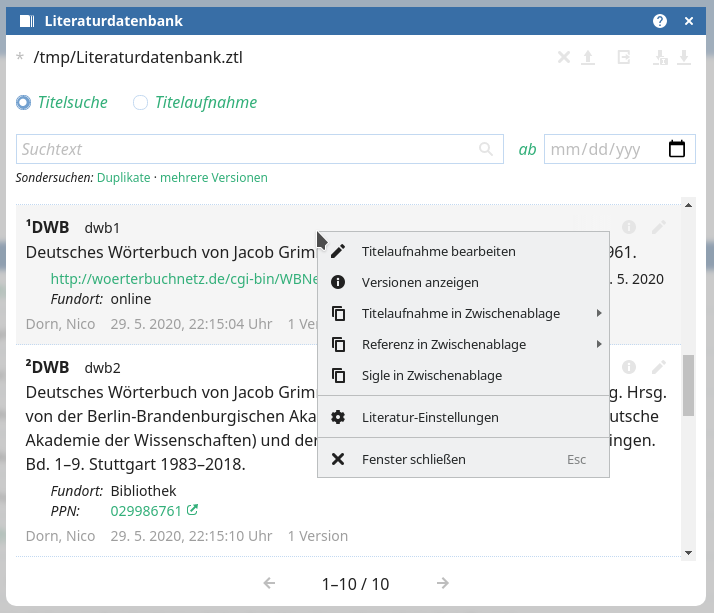
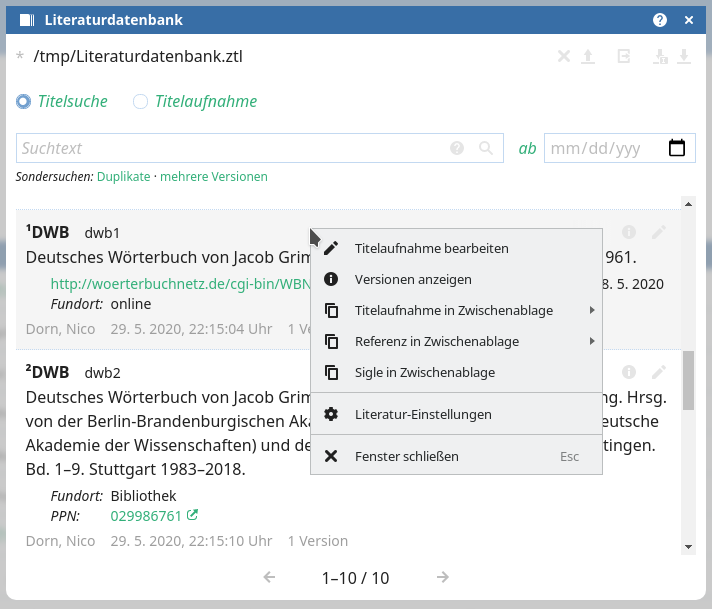
Feature: Hilfe-Popup zur Suchsyntax in der Literaturdatenbank

diff --git a/index.html b/index.html
@@ -1038,12 +1038,70 @@
 					><label for="red-lit-nav-eingabe">Titelaufnahme</label
 			></div>
 			<div id="red-lit-suche" class="aus">
-				<p id="red-lit-suche-form"
+				<div id="red-lit-suche-form"
 					><input type="text" value="" placeholder="Suchtext" id="red-lit-suche-text"
 					><label for="red-lit-suche-ab">ab</label
 					><input type="date" value="" id="red-lit-suche-ab" required
+					><a href="#" class="icon-link icon-kreis-fragezeichen" id="red-lit-suche-hilfe" tabindex="-1" title="Hilfe zur Suchsyntax"> </a
 					><a href="#" class="icon-link icon-lupe" id="red-lit-suche-start" tabindex="-1" title="Suche starten"> </a
-				></p>
+				><div id="red-lit-suche-hilfe-fenster" class="aus"
+					><img src="img/x.svg" width="24" height="24" alt="x" title="Popup schließen (Esc)">
+					<p>Basale <b>Suchsyntax</b>:</p>
+					<table>
+						<tr>
+							<th><code>wörterbuch</code></th>
+							<td>Einzelwortsuche</td>
+						</tr>
+						<tr>
+							<th><code>Wörterbuch</code></th>
+							<td>Einzelwortsuche mit genauer Schreibung</td>
+						</tr>
+						<tr>
+							<th><code>wörterbuch deutsch</code></th>
+							<td>Mehrwortsuche</td>
+						</tr>
+						<tr>
+							<th><code>&quot;wörterbuch der&quot;</code></th>
+							<td>Phrasensuche</td>
+						</tr>
+						<tr>
+							<th><code>-wörterbuch</code></th>
+							<td>negierte Einzelwortsuche</td>
+						</tr>
+						<tr>
+							<th><code>-&quot;wörterbuch der&quot;</code></th>
+							<td>negierte Phrasensuche</td>
+						</tr>
+						<tr>
+							<th><code>wörterbuch -deutsch</code></th>
+							<td>Mehrwortsuche, negiert und nicht negiert</td>
+						</tr>
+					</table>
+					<p>Mit den folgenden <b>Schaltern</b> grenzt man die Suche auf ein Datenfeld ein. Der Schalter <code>auchAlte:&quot;&quot;</code> dient dazu, auch veraltete Datensätze zu durchsuchen.</p>
+					<p><a href="#" title="Kurzform: si">Sigle:&quot;&quot;</a> <a href="#" title="Kurzform: id">ID:&quot;&quot;</a> <a href="#" title="Kurzform: ti">Titel:&quot;&quot;</a> <a href="#" title="Kurzform: ul">URL:&quot;&quot;</a> <a href="#" title="Kurzform: ad">Aufrufdatum:&quot;&quot;</a> <a href="#" title="Kurzform: fo">Fundort:&quot;&quot;</a> <a href="#" title="Kurzform: pn">PPN:&quot;&quot;</a> <a href="#" title="Kurzform: tg">Tags:&quot;&quot;</a> <a href="#" title="Kurzform: no">Notizen:&quot;&quot;</a> <a href="#" title="Kurzform: be">BearbeiterIn:&quot;&quot;</a> <a href="#" title="Kurzform: aa">auchAlte:&quot;&quot;</a></p>
+					<table>
+						<tr>
+							<th><code>Titel:&quot;Suchtext&quot;</code></th>
+							<td><q>Suchtext</q> muss im Feld <i>Titel</i> stehen</td>
+						</tr>
+						<tr>
+							<th><code>-Titel:&quot;Suchtext&quot;</code></th>
+							<td><q>Suchtext</q> darf nicht im Feld <i>Titel</i> stehen</td>
+						</tr>
+						<tr>
+							<th><code>Tags:&quot;&quot;</code></th>
+							<td>Feld <i>Tags</i> muss gefüllt sein</td>
+						</tr>
+						<tr>
+							<th><code>-Tags:&quot;&quot;</code></th>
+							<td>Feld <i>Tags</i> darf nicht gefüllt sein</td>
+						</tr>
+						<tr>
+							<th><code>auchAlte:&quot;&quot;</code></th>
+							<td>niemals negiert, immer ohne Suchtext</td>
+						</tr>
+					</table>
+				</div></div>
 				<p id="red-lit-suche-sonder"
 					><i>Sondersuchen:</i> <a href="#" data-sonder="duplikate">Duplikate</a> · <a href="#" data-sonder="versionen">mehrere Versionen</a
 				></p>

diff --git a/js/app/redLit.js b/js/app/redLit.js
@@ -1386,6 +1386,8 @@ let redLit = {
 	},
 	// Suche: starten
 	sucheStarten () {
+		// Suchhilfe schließen
+		document.getElementById("red-lit-suche-hilfe-fenster").classList.add("aus");
 		// Filterkriterien auslesen/Variablen vorbereiten
 		let input = document.getElementById("red-lit-suche-text"),
 			text = helfer.textTrim(input.value, true),
@@ -1852,6 +1854,38 @@ let redLit = {
 			// Titelaufnahme auffrischen
 			redLit.anzeige.snippetKontext = "suche";
 			i.parentNode.replaceChild(redLit.anzeigeSnippet(ds), i);
+		});
+	},
+	// Suche: Schalter ins Suchfeld eintragen
+	//   a = Element
+	//     (Anker im Hilfefenster)
+	sucheSchalter (a) {
+		a.addEventListener("click", function(evt) {
+			evt.preventDefault();
+			// Suchfeld vorbereiten
+			let suchfeld = document.getElementById("red-lit-suche-text");
+			if (suchfeld.value) {
+				suchfeld.value += " ";
+			}
+			// Suchfeld ergänzen
+			let schalter = this.textContent;
+			if (/^Aufrufdatum/.test(schalter)) {
+				const datum = new Date();
+				schalter = schalter.replace(/""/, `"${datum.getFullYear()}-${(datum.getMonth() + 1).toString().padStart(2, "0")}-${datum.getDate().toString().padStart(2, "0")}"`);
+			}
+			suchfeld.value += schalter;
+			// Cursor im Suchfeld setzen
+			const len = suchfeld.value.length;
+			if (/^auchAlte/.test(schalter)) {
+				suchfeld.setSelectionRange(len, len);
+			} else if (/^Aufrufdatum/.test(schalter)) {
+				suchfeld.setSelectionRange(len - 11, len - 1);
+			} else {
+				suchfeld.setSelectionRange(len, len - 1);
+			}
+			// Fenster schließen und Suchfeld fokussieren
+			document.getElementById("red-lit-suche-hilfe-fenster").classList.add("aus");
+			suchfeld.focus();
 		});
 	},
 	// Eingabeformular: Speicher für Variablen
@@ -3504,6 +3538,8 @@ let redLit = {
 	anzeigePopup ({id, slot}) {
 		redLit.anzeige.snippetKontext = "popup";
 		redLit.anzeige.id = id;
+		// Suchhilfe schließen
+		document.getElementById("red-lit-suche-hilfe-fenster").classList.add("aus");
 		// aktuelles Popup ggf. entfernen
 		redLit.anzeigePopupSchliessen();
 		// Fenster erzeugen

diff --git a/win/handbuch.html b/win/handbuch.html
@@ -4457,6 +4457,8 @@ Gerüst 2 &gt; Gerüst 1</pre>
 
 						<p>Die Suche kann via <kbd>⏎</kbd> oder durch Klick auf das Icon <img src="../img/lupe.svg" width="20" height="20" alt=""> <b>gestartet</b> werden.</p>
 
+						<p>Im <b>Hilfe-Popup</b> finden Sie Kurzhinweise zur Suchsyntax. Das Popup kann durch Klick auf das Icon <img src="../img/kreis-fragezeichen.svg" width="20" height="20" alt=""> geöffnet werden.</p>
+
 						<p>Geben Sie <b>kein Suchwort</b> ein, werden alle Titelaufnahmen in der Datenbank aufgelistet. Dabei werden pro Seite maximal 50 Treffer ausgeworfen. Im unteren Teil des Popups sehen Sie, wie viele Treffer angezeigt werden und ob es noch weitere gibt. Passen die Treffer nicht alle auf eine Seite, können Sie mithilfe der Pfeile vor- oder zurückblättern.</p>
 
 						<p>Die Suchergebnisse werden immer <b>alphanumerisch</b> nach Sigle sortiert.</p>
@@ -4510,6 +4512,8 @@ Gerüst 2 &gt; Gerüst 1</pre>
 						</ul>
 
 						<p>Dieser Schalter darf niemals Text enthalten; er dient nur zur Erweiterung des Suchskopus und kann mit allen anderen Schaltern oder Suchabfragen beliebig kombiniert werden. Da nun auch ältere Versionen einer Titelaufnahme durchsucht werden, könnte es sein, dass ihre Suche nicht auf die jüngste, aber auf eine ältere Version einer Titelaufnahme zutrifft. Ist dies der Fall, wird der Hinweis <q><span class="obacht">[Titelaufnahme veraltet]</span></q> gedruckt. Selbst wenn Ihre Suche auf mehrere der veralteten Titelaufnahmen zutrifft, wird dennoch nur die jüngste passende Aufnahme zu einem Titel angezeigt. Dies kann natürlich auch die jüngste, somit also nicht veraltete Aufnahme sein.</p>
+
+						<p>Die Schalter lassen sich alle durch Klick im <b>Hilfe-Popup</b> einfügen (Icon  <img src="../img/kreis-fragezeichen.svg" width="20" height="20" alt="">).</p>
 
 						<p>Verwenden Sie mehr als ein Suchwort und/oder mehr als einen Suchausdruck, werden diese immer durch ein <b>logisches Und</b> miteinander verknüpft. Sie bekommen nur Treffer, wenn alle Suchkriterien in einem Titel erfüllt sind.</p>
 

diff --git a/css/app/overlays-redLit.css b/css/app/overlays-redLit.css
@@ -116,8 +116,8 @@
 
 #red-lit-suche-text {
 	margin-right: 15px;
-	padding-right: 29px;
-	width: calc(100% - 228px); /* 36px Padding und Border, 15px Margin, 20px Label, 157px Datumsfeld */
+	padding-right: 58px;
+	width: calc(100% - 257px); /* 36px Padding und Border, 15px Margin, 20px Label, 157px Datumsfeld */
 	transition: background-color .5s linear;
 }
 
@@ -139,10 +139,81 @@
 	width: 20px;
 }
 
+#red-lit-suche-hilfe,
 #red-lit-suche-start {
 	position: absolute;
-	left: calc(100% - 228px + 6px); /* vgl. #red-lit-suche-text */
+	left: calc(100% - 257px + 6px); /* vgl. #red-lit-suche-text */
 	top: 3px;
+}
+
+#red-lit-suche-start {
+	left: calc(100% - 228px + 6px); /* vgl. #red-lit-suche-text */
+}
+
+#red-lit-suche-hilfe-fenster {
+	position: absolute;
+	top: 34px;
+	right: 0;
+	z-index: 1;
+	box-shadow: var(--boxShadow);
+	border: 1px solid var(--linie);
+	border-radius: 5px;
+	padding: 10px;
+	width: 500px;
+	background-color: #fff;
+	color: var(--text);
+	font-size: 14px;
+	line-height: 24px;
+}
+
+#red-lit-suche-hilfe-fenster img {
+	position: absolute;
+	top: 0;
+	right: 0;
+}
+
+#red-lit-suche-hilfe-fenster table {
+	border-spacing: 0;
+	border-top: 1px solid var(--linie);
+}
+
+#red-lit-suche-hilfe-fenster th,
+#red-lit-suche-hilfe-fenster td {
+	padding: 0;
+	border-bottom: 1px solid var(--linie);
+}
+
+#red-lit-suche-hilfe-fenster th {
+	padding-right: 10px;
+	vertical-align: top;
+	text-align: left;
+	font-weight: normal;
+	white-space: nowrap;
+}
+
+#red-lit-suche-hilfe-fenster p {
+	margin-bottom: 5px;
+}
+
+#red-lit-suche-hilfe-fenster table + p {
+	margin-top: 10px;
+}
+
+#red-lit-suche-hilfe-fenster p:last-child {
+	margin-bottom: 0;
+}
+
+#red-lit-suche-hilfe-fenster a {
+	display: inline-block;
+	margin: 5px 0;
+	border-radius: 3px;
+	border: 1px solid var(--linie);
+	padding: 0 5px;
+	color: var(--hintergrundBlau);
+}
+
+#red-lit-suche-hilfe-fenster a:hover {
+	cursor: pointer;
 }
 
 #red-lit-suche-sonder {

diff --git a/win/changelog.html b/win/changelog.html
@@ -57,7 +57,9 @@
 				<h3>Neue Funktionen</h3>
 
 				<ul>
-					<li><a href="#menueRedaktion-literatur" class="link-handbuch">Literaturdatenbank</a>: Mithilfe des neuen <a href="#menueRedaktion-literaturAuchAlte" class="link-handbuch">Suchschalters</a> <code class="quelltext">aa:&quot;&quot;</code> <abbr title="beziehungsweise">bzw.</abbr> <code class="quelltext">auchAlte:&quot;&quot;</code> können veraltete Titelaufnahmen in die Suche mit einbezogen werden.</li>
+					<li><a href="#menueRedaktion-literatur" class="link-handbuch">Literaturdatenbank</a>: Zur Suchsyntax gibt es nun ein Hilfe-Popup mit kurzen Erläuterungen, das über das Icon <img src="../img/kreis-fragezeichen.svg" width="24" height="24" alt=""> geöffnet werden kann.</li>
+
+					<li>Literaturdatenbank: Mithilfe des neuen <a href="#menueRedaktion-literaturAuchAlte" class="link-handbuch">Suchschalters</a> <code class="quelltext">aa:&quot;&quot;</code> <abbr title="beziehungsweise">bzw.</abbr> <code class="quelltext">auchAlte:&quot;&quot;</code> können veraltete Titelaufnahmen in die Suche mit einbezogen werden.</li>
 
 					<li>
 						<p>Literaturdatenbank: Suchausdrücke können nun negiert werden. Dazu muss einem Suchwort, einer Phrase oder einem Schalter der speziellen <a href="#menueRedaktion-literaturSuchsyntax" class="link-handbuch">Suchsyntax</a> ein <code class="quelltext">-</code> vorangestellt werden. Einige Beispiele:</p>

diff --git a/js/app/init-app.js b/js/app/init-app.js
@@ -377,6 +377,13 @@ window.addEventListener("load", async () => {
 	document.querySelectorAll(`#red-lit-pfad a`).forEach(a => redLit.dbListener(a));
 	document.querySelectorAll(`#red-lit-nav input`).forEach(i => redLit.navListener(i));
 	document.querySelectorAll("#red-lit-suche-form input").forEach(i => redLit.sucheListener(i));
+	document.querySelectorAll("#red-lit-suche-hilfe, #red-lit-suche-hilfe-fenster img").forEach(i => {
+		i.addEventListener("click", evt => {
+			evt.preventDefault();
+			document.getElementById("red-lit-suche-hilfe-fenster").classList.toggle("aus");
+		});
+	});
+	document.querySelectorAll("#red-lit-suche-hilfe-fenster a").forEach(a => redLit.sucheSchalter(a));
 	document.getElementById("red-lit-suche-start").addEventListener("click", evt => {
 		evt.preventDefault();
 		redLit.sucheStarten();

diff --git a/js/tastatur.js b/js/tastatur.js
@@ -45,8 +45,13 @@ let tastatur = {
 			}
 			// Versionen-Popup in der Literaturdatenbank schließen
 			if (overlayId === "red-lit" &&
-					document.getElementById("red-lit-popup")) {
-				redLit.anzeigePopupSchliessen();
+						(document.getElementById("red-lit-popup") ||
+						!document.getElementById("red-lit-suche-hilfe-fenster").classList.contains("aus"))) {
+				if (document.getElementById("red-lit-popup")) {
+					redLit.anzeigePopupSchliessen();
+				} else {
+					document.getElementById("red-lit-suche-hilfe-fenster").classList.add("aus");
+				}
 				return;
 			}
 			// Overlay-Fenster schließen

diff --git a/css/icon-links.css b/css/icon-links.css
@@ -43,6 +43,11 @@
 	mask-image: url(../img/dokument-export.svg);
 }
 
+.icon-kreis-fragezeichen {
+	-webkit-mask-image: url(../img/kreis-fragezeichen.svg);
+	mask-image: url(../img/kreis-fragezeichen.svg);
+}
+
 .icon-kreis-info {
 	-webkit-mask-image: url(../img/kreis-info.svg);
 	mask-image: url(../img/kreis-info.svg);

diff --git a/css/app/app.css b/css/app/app.css
@@ -32,6 +32,15 @@ body {
 	user-select: none;
 }
 
+code {
+	border-radius: 3px;
+	padding: 0 3px;
+	background-color: var(--hintergrund);
+	color: var(--text);
+	font-family: "Noto Sans Mono", "Noto Sans Symbols2", monospace;
+	user-select: text;
+}
+
 h2 {
 	margin: 0;
 	padding: 0 0 0 10px;
